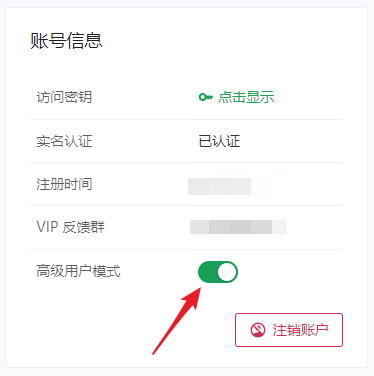
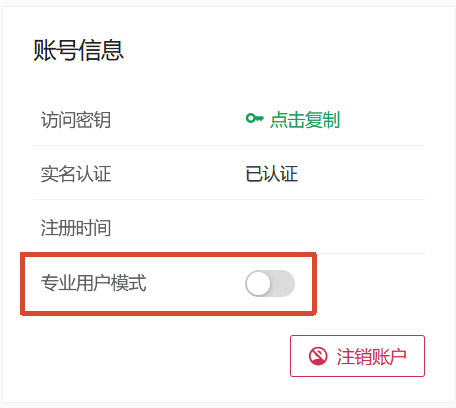
chore: replace 高级用户 with 专业用户
to match UI change in control panel

diff --git a/geek.md b/geek.md
@@ -2,9 +2,9 @@
 sidebar: false
 ---
 
-# 极客用户相关说明
+# 专业用户相关说明
 
-如果您是极客用户，下方的内容可能会对您有所帮助。
+如果您是专业用户，下方的内容可能会对您有所帮助。
 
 ## 数据安全 {#data-security}
 
@@ -46,17 +46,21 @@ sidebar: false
 
 部分完全由客户端实现的功能（如访问认证、自动 HTTPS 等）在这种情况下也可以正常工作。
 
-## 高级用户模式 {#advanced-mode}
+## 专业用户模式 {#advanced-mode}
 
 ::: warning 警告
-打开高级用户模式时请仔细阅读弹出的安全警告并确认您能驾驭这些功能
+打开专业用户模式时请仔细阅读弹出的安全警告并确认您能理解和驾驭您正在配置的功能。  
+高级功能可能造成您使用时的困惑，如非专业用户请勿随意开启。  
+在使用这些高级功能时，请再次确认您具备相应的专业知识和理解能力，并阅读对应文档。
 :::
 
 为了减少因配置错误而造成的使用问题，管理面板中的部分功能默认被隐藏。此外，为了加强用户的安全意识，我们还增设了一部分安全提示框。
 
-如果您具有 **专业计算机知识** 且 **熟悉 frpc 的配置与使用**，可以在 [用户信息](https://www.natfrp.com/user/profile) 页面打开 **高级用户模式** 来显示这些配置，并隐藏一部分安全提示。
+如果您具有 **专业计算机知识** 且 **熟悉您正在使用的相关软件**，可以在 [用户信息](https://www.natfrp.com/user/profile) 页面打开 **专业用户模式** 来显示这些配置，并隐藏一部分安全提示。
 
 ![](./_images/advanced-mode.png)
+
+对于官方启动器，您可以在启动器的 *设置* 页中找到并启用 **专业用户模式** 开关，这允许您在启动器中创建和编辑隧道时使用受此开关保护的高级配置选项，同时也会隐藏一部分安全提示。
 
 ## 启动器移植 {#porting-launcher}
 

diff --git a/launcher/usage.md b/launcher/usage.md
@@ -48,7 +48,7 @@
 
 ::: tip
 如果在安装过程中碰到问题，请参阅 [启动器常见安装问题](/faq/launcher.md#install)  
-**高级用户** 也可以选择不装用户界面，使用 Web UI（配置复杂，仅限高级用户）
+**专业用户** 也可以选择不装用户界面，使用 Web UI（配置复杂，仅限专业用户）
 :::
 
 运行安装程序并根据向导提示进行安装，通常情况下一直点 **下一步** 即可。
@@ -436,7 +436,7 @@ sudo bash -c ". <(wget -O- https://doc.natfrp.com/launcher.sh)"
    - `ghcr.io/natfrp/launcher`
    - `registry.cn-hongkong.aliyuncs.com/natfrp/launcher`
 
-   如果您遇到了错误 `Bind for 0.0.0.0:7102 failed: port is already allocated`，请查找本机监听 `7102` 的程序关闭，或参考 [高级用户](#advance-docker) 替换监听端口。
+   如果您遇到了错误 `Bind for 0.0.0.0:7102 failed: port is already allocated`，请查找本机监听 `7102` 的程序关闭，或参考 [专业用户](#advance-docker) 替换监听端口。
 
 1. 获取连接信息
 
@@ -460,9 +460,9 @@ sudo bash -c ". <(wget -O- https://doc.natfrp.com/launcher.sh)"
    您只需本机打开 `https://127.0.0.1:<端口>` 即可访问 WebUI 管理界面。
 
    默认情况下 WebUI 向您连入的所有网络开放，如果您需要访问，可以使用 `https://内网IP:<端口>`，
-   如果您需要修改监听 IP，请参考 [高级用户](#advance-docker)。
+   如果您需要修改监听 IP，请参考 [专业用户](#advance-docker)。
 
-1. 高级用户 {#advance-docker}
+1. 专业用户 {#advance-docker}
 
    如果您需要自行配置，请先阅读 [配置文件详解](/launcher/manual.md#config)，然后将容器内的 `/run/config.json` 挂载编辑即可。
 

diff --git a/faq/launcher.md b/faq/launcher.md
@@ -197,7 +197,7 @@ Windows 7 和 Server 2008 早已停止支持，微软已不再提供安全更新
 - 安装（或更新） `Microsoft Edge WebView2 运行时` 然后重启启动器即可 ([点击这里下载](https://go.microsoft.com/fwlink/p/?LinkId=2124703))
   - 若在安装时提示 `安装失败。已为系统安装 Microsoft Edge WebView2 Runtime。` ，则当前 WebView2 运行时文件可能已损坏。请前往 [设置 > 应用与功能](ms-settings:appsfeatures) 页面，找到 `Microsoft Edge Webview2 Runtime`，点击并选择 **修改** 按钮进行修复
 
-::: details 您也可以手动配置固定版本的 WebView2 运行时 (仅限高级用户)
+::: details 您也可以手动配置固定版本的 WebView2 运行时 (仅限专业用户)
 
 - 从 [Windows Update Catalog](https://www.catalog.update.microsoft.com/Search.aspx?q=webview2) 或 [此仓库 (由第三方提供, 请注意校验数字签名)](https://github.com/westinyang/WebView2RuntimeArchive/releases) 下载固定版本的运行时文件
   - Windows 10 / 11 用户直接下载最新版即可，注意选择正确的架构

diff --git a/frpc/export-port.md b/frpc/export-port.md
@@ -8,7 +8,7 @@
 ::: tip
 该功能为高级功能，请使用时确定您清楚自己在做什么。
 
-启用此功能需要在网页中启用高级用户模式，请务必仔细阅读弹窗警告。
+启用此功能需要在网页中启用专业用户模式，请务必仔细阅读弹窗警告。
 
 如果您使用此功能时不启用 [访问验证](/bestpractice/frpc-auth) 或白名单，您可能会遭遇巨大的网络风险，因为此时我们服务端的安全强化已经无法保护您。
 :::
@@ -19,7 +19,7 @@
 
 我们在打洞时将尝试通过 UPnP 通过路由器，当您不想在路由器上运行客户端，或路由器是傻路由器时，仍然能为您降低失败几率。
 
-我们提供独立的 ETCP/EUDP 隧道类型仅用于此，同时在 TCP/UDP 隧道的高级用户选项中提供了一个顺带尝试打洞的功能。
+我们提供独立的 ETCP/EUDP 隧道类型仅用于此，同时在 TCP/UDP 隧道的专业用户选项中提供了一个顺带尝试打洞的功能。
 
 ### 中继模式
 

diff --git a/launcher/manual.md b/launcher/manual.md
@@ -1,7 +1,7 @@
 # SakuraFrp 启动器 3.0 用户手册
 
 ::: tip
-这是面向高级用户的手册，通常情况下您只需查看 [启动器安装、使用指南](/launcher/usage.md)
+这是面向专业用户的手册，通常情况下您只需查看 [启动器安装、使用指南](/launcher/usage.md)
 :::
 
 ## 组件说明
@@ -14,7 +14,7 @@
 | `SakuraLauncher.apk`                                         | Android                            |
 | 配置 Web UI 通过 [PWA](https://launcher.natfrp.com) 进行管理 | 所有平台                           |
 
-高级用户完全可以选择不安装用户界面、手动修改 `config.json` 并启用远程管理 V2 通过管理面板管理启动器。
+专业用户完全可以选择不安装用户界面、手动修改 `config.json` 并启用远程管理 V2 通过管理面板管理启动器。
 
 | 核心服务               | 平台            |
 | ---------------------- | --------------- |

diff --git a/frpc/_usage/running.md b/frpc/_usage/running.md
@@ -5,7 +5,7 @@
 | 启动方式 | 说明 |
 | --- | --- |
 | [TUI](#tui-usage) | 易于上手，适合不熟悉命令行的新手用户 |
-| [命令行](#cli-usage) | 支持更复杂的配置，适合高级用户 |
+| [命令行](#cli-usage) | 支持更复杂的配置，适合专业用户 |
 
 ### 查看访问密钥 {#get-token}
 
@@ -108,4 +108,4 @@ frpc -f <访问密钥>:<隧道ID 1>[,隧道ID 2[,隧道ID 3...]]
 
 这是一篇适合绝大多数用户的简明使用教程，因此文中省略了很多特性和配置说明。
 
-如果您是高级用户，您还可以在 [用户手册](/frpc/manual.md) 获取更多关于 frpc 的信息，例如命令行开关和配置文件细则。
+如果您是专业用户，您还可以在 [用户手册](/frpc/manual.md) 获取更多关于 frpc 的信息，例如命令行开关和配置文件细则。

diff --git a/bestpractice/realip.md b/bestpractice/realip.md
@@ -36,7 +36,7 @@ UDP 隧道需更新到 0.42.0-sakura-4 以上才能使用此功能
 
 Proxy Protocol 是由 HAProxy 开发者 Willy 提出的一种反向代理协议，目前已被广泛支持。您可以参考 [HAProxy 文档](http://www.haproxy.org/download/1.8/doc/proxy-protocol.txt) 获取更多信息。
 
-启用 [高级用户模式](/geek.md#advanced-mode) 并添加如下 **隧道自定义设置** 后，frpc 就会在请求本地服务时应用 Proxy Protocol 协议：
+启用 [专业用户模式](/geek.md#advanced-mode) 并添加如下 **隧道自定义设置** 后，frpc 就会在请求本地服务时应用 Proxy Protocol 协议：
 
 ```ini
 proxy_protocol_version = <v1|v2|simple>

diff --git a/frpc/manual.md b/frpc/manual.md
@@ -1,7 +1,7 @@
 # frpc 用户手册
 
 ::: tip
-这是面向高级用户的手册，如果您尚不熟悉 frpc，请移步 [frpc 简明使用教程](/frpc/usage.md#running-frpc)
+这是面向专业用户的手册，如果您尚不熟悉 frpc，请移步 [frpc 简明使用教程](/frpc/usage.md#running-frpc)
 :::
 
 由 Sakura Frp 分发的 frpc 与上游开源版本有一定差异，部分配置项可能不受支持，请以此文档为准进行配置。

diff --git a/style.md b/style.md
@@ -20,7 +20,7 @@ sidebar: false
 | --- | --- |
 | 文档阅读者 | `您` |
 | 本平台 | `SakuraFrp` |
-| 计算机知识丰富的 Geek / 专业用户 | `高级用户` |
+| 计算机知识丰富的 Geek / 专业用户 | `专业用户` |
 | HTTP 或 HTTPS 隧道 | `HTTP(S) 隧道` |
 | 提供内网穿透的服务器 | `节点` |
 | 用于演示的节点域名 | `frp-xxx.com`、`idea-leaper-1.natfrp.io` 等 |

diff --git a/faq.md b/faq.md
@@ -34,4 +34,4 @@ sidebar: false
 
 - 如果您在使用时遇到流量莫名损失的情况，建议您参阅 [安全实践-访问认证](/bestpractice/frpc-auth.md) 配置访问认证
 
-- 有一些 Geek 的问题？请参阅我们的 [高级用户相关说明](/geek.md)
+- 有一些 Geek 的问题？请参阅我们的 [专业用户相关说明](/geek.md)
